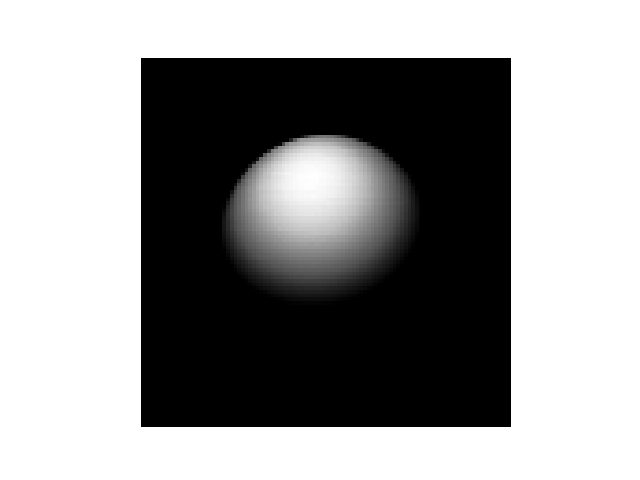
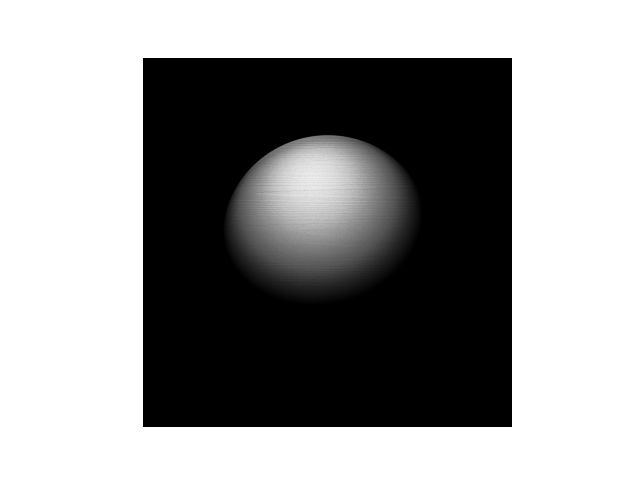
update code

Changed region(s): [[0.3438, 0.2812, 0.5938, 0.5312]]

diff --git a/Milestone-1/ray_tracing_serial.c b/Milestone-1/ray_tracing_serial.c
@@ -20,7 +20,7 @@ double **create_2d_array(int grid_size)
 
     for (int i = 0; i < grid_size; i++)
         for (int j = 0; j < grid_size; j++)
-            grid[i][j] = 0;
+            grid[i][j] = 0.0;
 
     return grid;
 }
@@ -99,7 +99,7 @@ void write_to_file(FILE *fp, int N, double **arr)
     {
         for (int j = 0; j < N; j++)
         {
-            fprintf(fp, "%e, ", arr[i][j]);
+            fprintf(fp, "%f, ", arr[i][j]);
         }
         fprintf(fp, "\n");
     }
@@ -141,8 +141,8 @@ void ray_tracing(double **G, int grid_size, long int N_rays,
 
             scalar_multiplication(V, &W_V, W);
             vector_dot_product(V, C, &V_C);
-        } while (!(abs(W->x) < W_max &&
-                   abs(W->z) < W_max &&
+        } while (!(fabs(W->x) < W_max &&
+                   fabs(W->z) < W_max &&
                    V_C * V_C + R * R - C_C > 0));
 
         vector_dot_product(V, C, &V_C);
@@ -166,7 +166,7 @@ void ray_tracing(double **G, int grid_size, long int N_rays,
 
         // BRIGHTNESS OBSERVED AT I
         vector_dot_product(S, N, &S_N);
-        b = S_N > 0.0 ? S_N : 0.0;
+        b = fmax(0.0, S_N);
 
         // FIND ij
         i = grid_size - (grid_size) * (W->x + W_max) / (2 * W_max);
